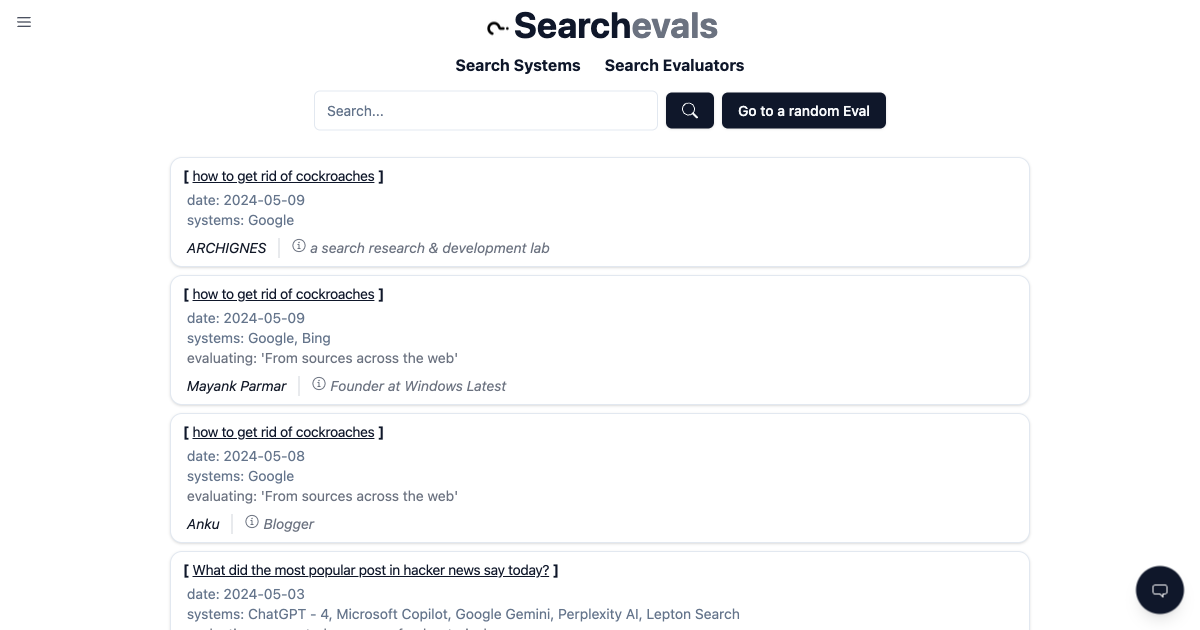
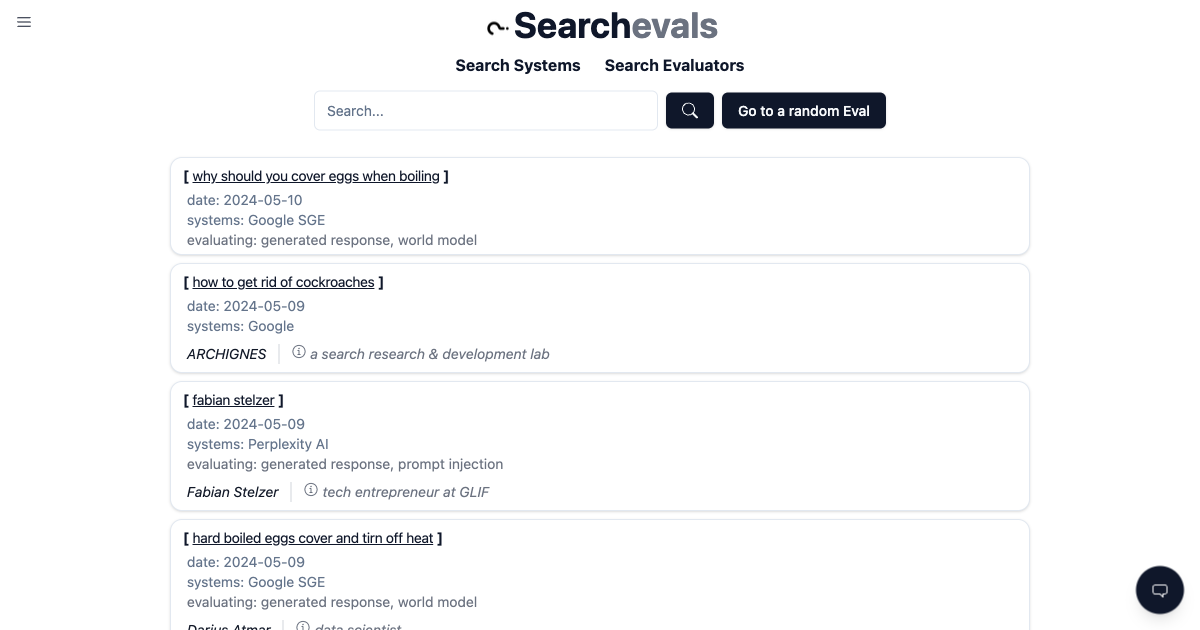
new evals, updated dynamic results div

Changed region(s): [[0.1542, 0.2714, 0.8633, 1.0]]

diff --git a/src/components/SearchBar.tsx b/src/components/SearchBar.tsx
@@ -98,7 +98,7 @@ export default function SearchBar(): JSX.Element {
       </div>
     </div>
       {query && showResults && results.length > 0 && query !== new URLSearchParams(window.location.search).get('q') && (
-      <div id="dynamic-results" className="w-full fixed bg-white pb-5 md:min-w-[600px] max-w-[800px] sm:w-2/3 md:w-1/2 md:px-10 mt-1 mx-auto left-0 right-0">
+      <div id="dynamic-results" className="w-full fixed bg-white mt-2 left-0 right-0">
         <button onClick={handleCloseResults} className="mr-0 hover:bg-blue-100 p-1 rounded-md"><svg xmlns="http://www.w3.org/2000/svg" width="24" height="24" fill="currentColor" className="bi bi-x" viewBox="0 0 16 16">
           <path d="M4.646 4.646a.5.5 0 0 1 .708 0L8 7.293l2.646-2.647a.5.5 0 0 1 .708.708L8.707 8l2.647 2.646a.5.5 0 0 1-.708.708L8 8.707l-2.646 2.647a.5.5 0 0 1-.708-.708L7.293 8 4.646 5.354a.5.5 0 0 1 0-.708z" />
         </svg>
@@ -110,9 +110,7 @@ export default function SearchBar(): JSX.Element {
           <ul className='mt-2'>
           {results.map((result: any) => (
             <li key={result.id} className='p-1'>
-              <a href={`/card/${result.id}`}>
                 {miniEvalCard && React.createElement(miniEvalCard, { evalItemId: result.id})}
-                </a>
             </li>
           ))}
         </ul>

diff --git a/src/components/ImageDisplay.tsx b/src/components/ImageDisplay.tsx
@@ -22,12 +22,14 @@ const ImageDisplay: React.FC<ImageDisplayProps> = ({ images, type, className }) 
         <div className={`grid ${type === 'solo' ? 'grid-cols-1' : (pathname === "/" || images.length > 1) ? 'grid-cols-2' : 'grid-cols-1'} gap-4 justify-items-center ${className}`}>
             {images.map((image, index) => (
                 <div key={index} className="text-center">
-                    {image.annotated && (
+                    {(image.annotated || image.extension_modified) && (
                         <div className="flex items-center mx-auto w-2/3 m-1 text-center text-sm text-red-500 mt-2">
                             <span className="inline-flex mr-2"><ExclamationTriangleIcon /></span>
-                            <span>This image appears to contain annotation.</span>
+                            {image.annotated && <span>This image appears to contain annotation.</span>}
+                            {image.extension_modified && <span>This image appears include browser extension modifications.</span>}
                         </div>
                     )}
+                    
                     <img
                         src={image.url}
                         alt={image.caption} // Assuming you want to use the caption as alt text for accessibility

diff --git a/src/types/evalItem.tsx b/src/types/evalItem.tsx
@@ -12,6 +12,7 @@ export interface imageItem {
   url: string;
   caption?: string;
   annotated?: boolean;
+  extension_modified?: boolean;
 }
 
 
@@ -23,6 +24,8 @@ export interface methodologyCitation {
 
 export type evalTag = "implied negative evaluation" | "implied positive evaluation" | "adversarial query" | "more evaluations available at the link"
 
+export type searchType = "navigational" | "video"
+
 export type evalTarget = 
   | "featured snippet" 
   | "generated response" 
@@ -31,7 +34,10 @@ export type evalTarget =
   | "fresh retreival"
   | "hallucination"
   | "logic error"
-  | "'From sources across the web'";
+  | "'From sources across the web'"
+  | "world model"
+  | "prompt injection"
+  | "SERP";
 
 export interface EvalItem {
   id: string;
@@ -42,6 +48,7 @@ export interface EvalItem {
   following?: string[];
   key_phrases?: string[];
   evaluation_target?: Array<evalTag>;
+  search_type?: Array<searchType>;
   tags?: Array<evalTag>;
   methodology?: methodologyCitation | null;
   context?: string;

diff --git a/src/components/Footer.tsx b/src/components/Footer.tsx
@@ -2,7 +2,7 @@ import { GitHubLogoIcon, TwitterLogoIcon, LinkedInLogoIcon } from '@radix-ui/rea
 import { Button } from "./ui/button";
 import { Input } from "./ui/input";
 
-const lastUpdated = "2024-05-10T00:27:09.614Z";
+const lastUpdated = "2024-05-10T19:34:02.179Z";
 
 const Footer: React.FC = () => {
   return (
